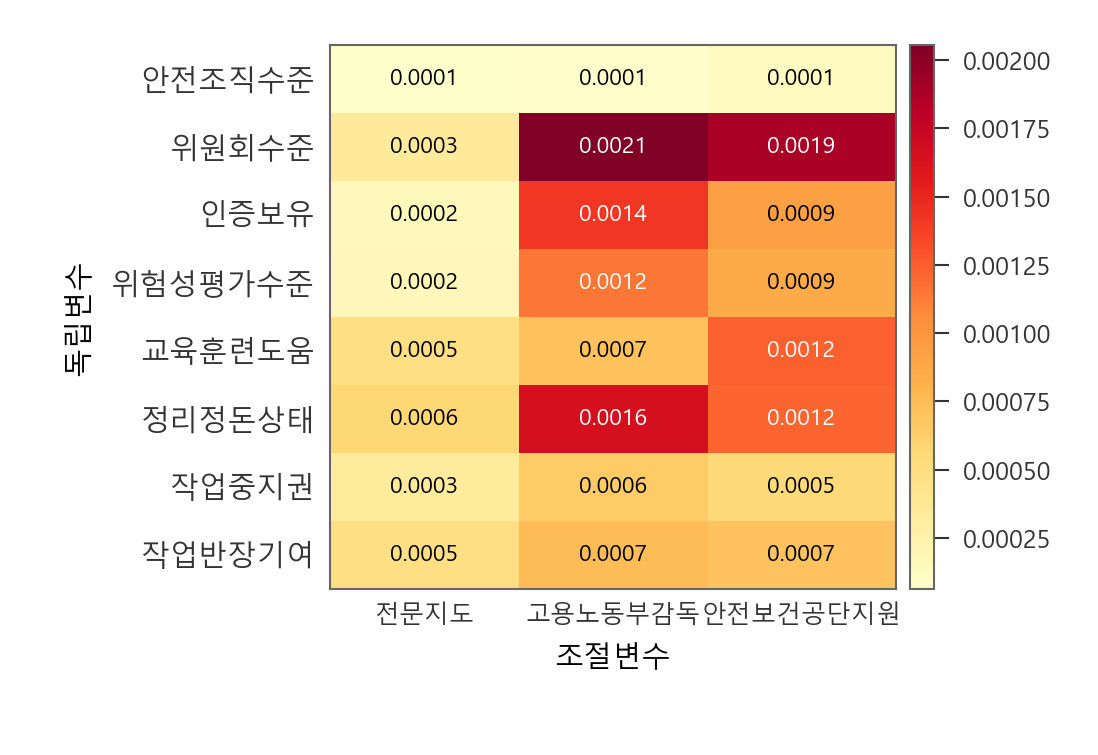
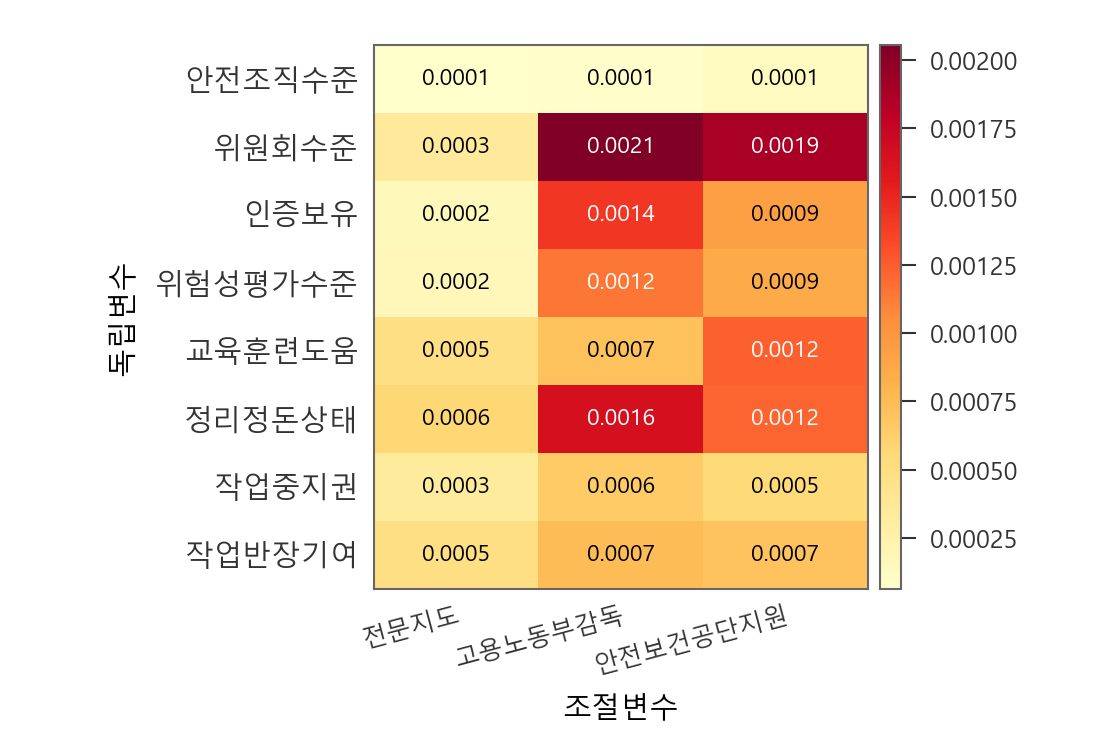
14_heatmap: ylabel/colorbar 여백 추가 확보 + x축 라벨 15도 회전 (겹침 해소)

diff --git a/src/paper_figures.py b/src/paper_figures.py
@@ -233,7 +233,7 @@ if mat is None:
 W = 93.03 / 25.4; H = 63.97 / 25.4
 fig = plt.figure(figsize=(W, H))
 gs = GridSpec(1, 2, width_ratios=[24, 1], wspace=0.05,
-              left=0.30, right=0.85, top=0.94, bottom=0.22, figure=fig)
+              left=0.34, right=0.82, top=0.94, bottom=0.22, figure=fig)
 ax = fig.add_subplot(gs[0])
 cax = fig.add_subplot(gs[1])
 
@@ -244,7 +244,8 @@ for i in range(len(rows)):
         text_color = 'white' if v > mat.max() * 0.55 else 'black'
         ax.text(j, i, f'{v:.4f}', ha='center', va='center',
                 fontsize=5.5, color=text_color)
-ax.set_xticks(range(len(cols))); ax.set_xticklabels(cols, fontsize=6)
+ax.set_xticks(range(len(cols)))
+ax.set_xticklabels(cols, fontsize=6, rotation=15, ha='right', rotation_mode='anchor')
 ax.set_yticks(range(len(rows))); ax.set_yticklabels(rows, fontsize=7)
 ax.tick_params(axis='both', length=0)
 ax.set_xlabel('조절변수', fontsize=7)